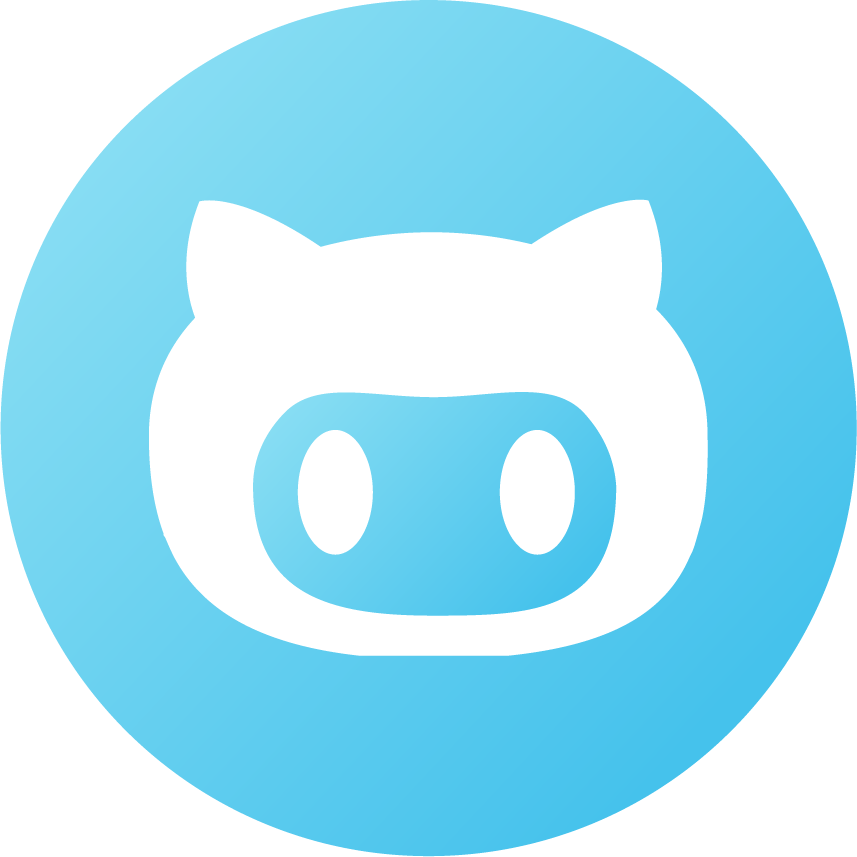
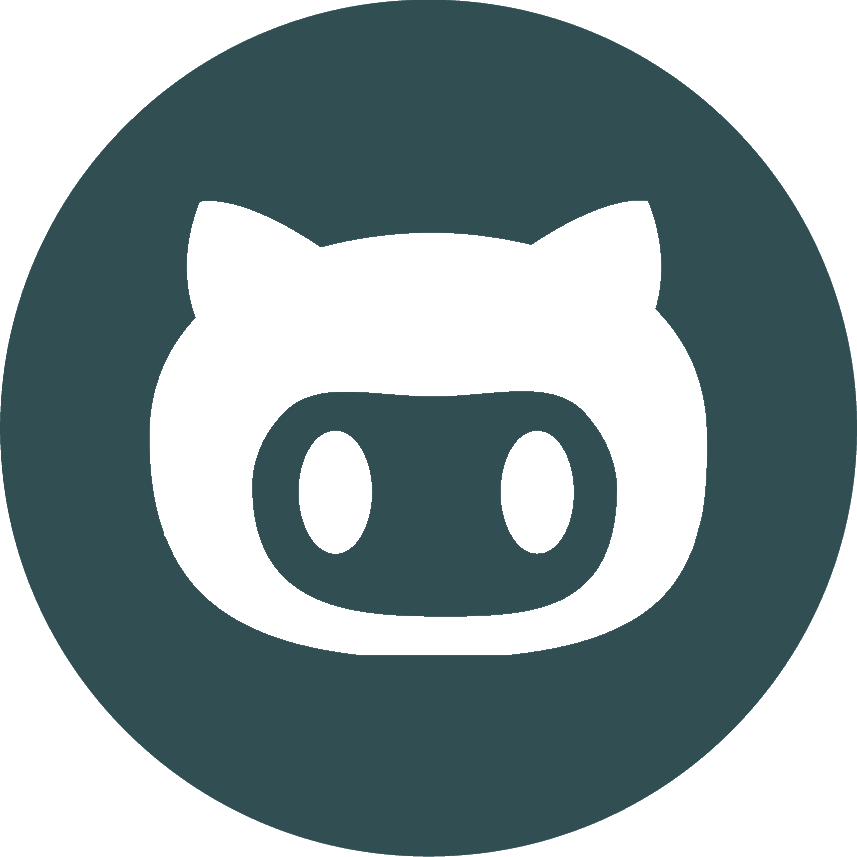
added styling to login and sign up and changed github image colors

diff --git a/client/src/pages/Signup.js b/client/src/pages/Signup.js
@@ -29,14 +29,26 @@ function Signup(props) {
     });
   };
 
+
+  const styles = {
+    link: {
+      textDecoration: 'none',
+      color: '#F2A154',
+      fontSize: '20px'
+    }
+  }
+
   return (
-    <div className="container my-1">
-      <Link to="/login">← Go to Login</Link>
+    <div className="container ms-auto d-flex justify-content-center align-items-center flex-column col-sm-12 form-group">
+      <Link style={styles.link}to="/login">Already Signed Up? <br></br>← Go to Login</Link>
       <h2>Signup</h2>
-      <form onSubmit={handleFormSubmit}>
+      <form 
+      className="col-sm-6"
+      onSubmit={handleFormSubmit}
+      >
         <div className="flex-row space-between my-2">
-          <label htmlFor="firstName">Username:</label>
           <input
+            className="form-control justify-content-center align-items-center col-sm-12"
             placeholder="Username"
             name="username"
             type="username"
@@ -45,8 +57,8 @@ function Signup(props) {
           />
         </div>
         <div className="flex-row space-between my-2">
-          <label htmlFor="email">Email:</label>
           <input
+            className="form-control justify-content-center align-items-center col-sm-12"
             placeholder="youremail@test.com"
             name="email"
             type="email"
@@ -55,8 +67,8 @@ function Signup(props) {
           />
         </div>
         <div className="flex-row space-between my-2">
-          <label htmlFor="pwd">Password:</label>
           <input
+            className="form-control justify-content-center align-items-center col-sm-12"
             placeholder="******"
             name="password"
             type="password"
@@ -64,8 +76,11 @@ function Signup(props) {
             onChange={handleChange}
           />
         </div>
-        <div className="flex-row flex-end">
-          <button type="submit">Submit</button>
+        <div className="flex-row flex-end d-flex justify-content-center align-items-center col-sm-12">
+          <button 
+          className="btn d-flex justify-content-center align-items-center col-sm-6"
+          type="submit"
+          >Submit</button>
         </div>
       </form>
     </div>

diff --git a/client/src/components/LoginPanel/index.js b/client/src/components/LoginPanel/index.js
@@ -28,11 +28,21 @@ function LoginPanel(props) {
     });
   };
 
+  const styles = {
+    link: {
+      textDecoration: 'none',
+      color: '#F2A154',
+      fontSize: '20px'
+    }
+  }
+
   return (
-      <form onSubmit={handleFormSubmit}>
-        <div className="flex-row space-between my-2">
-          <label htmlFor="email">Email address:</label>
+      <form 
+      className="container ms-atuo d-flex justify-content-center align-items-center flex-column col-sm-6 form-group"
+      onSubmit={handleFormSubmit}>
+        <div className="container ms-atuo d-flex justify-content-center align-items-center flex-column col-sm-12 form-group">
           <input
+            className="form-control justify-content-center align-items-center col-sm-12"
             placeholder="youremail@test.com"
             name="email"
             type="email"
@@ -40,9 +50,9 @@ function LoginPanel(props) {
             onChange={handleChange}
           />
         </div>
-        <div className="flex-row space-between my-2">
-          <label htmlFor="pwd">Password:</label>
+        <div className="container ms-atuo d-flex justify-content-center align-items-center flex-column col-sm-12 form-group my-2">
           <input
+            className="form-control justify-content-center align-items-center col-sm-12"
             placeholder="******"
             name="password"
             type="password"
@@ -55,8 +65,10 @@ function LoginPanel(props) {
             <p className="error-text">The provided credentials are incorrect</p>
           </div>
         ) : null}
-        <div className="flex-row flex-end">
-          <button type="submit">Submit</button>
+        <div className="flex-row flex-end d-flex justify-content-center align-items-center col-sm-12">
+          <button 
+          className="btn d-flex justify-content-center align-items-center col-sm-6"
+          type="submit">Submit</button>
         </div>
       </form>
   );

diff --git a/client/src/pages/UserList.js b/client/src/pages/UserList.js
@@ -82,7 +82,11 @@ const removeMovie = (e) => {
       }
     } else {
       event.preventDefault();
-      setErrorMsg([...errorMsg,{msg: 'Please make sure you have entered List Name, List Message, and have created a Movie List.'}]);
+      if(!errorMsg.includes('Please make sure you have entered List Name, List Message, and have created a Movie List.'))
+      {
+        setErrorMsg([...errorMsg,{msg: 'Please make sure you have entered List Name, List Message, and have created a Movie List.'}]);
+      }
+      
     }
   }
   //call the api to return the movie you searched for
@@ -101,7 +105,11 @@ const removeMovie = (e) => {
         setErrorMsg([])
     } else {
       event.preventDefault();
-      setErrorMsg([...errorMsg, {msg: 'Please enter a movie title.'}]);
+      if(!errorMsg.includes('Please enter a movie title.'))
+      {
+        setErrorMsg([...errorMsg, {msg: 'Please enter a movie title.'}]);
+      }
+      
     }
   }
   //styles for jsx
@@ -198,7 +206,7 @@ const removeMovie = (e) => {
           }
         <div className="d-flex flex-row list-group col-sm-12 justify-content-around align-items-center">
           <div className="d-flex flex-column list-group col-sm-12 justify-content-center">
-            <div className="errorMsg d-flex flex-column col-sm-12 justify-content-center">{errorMsg.map( error => <h1 className="errorMsg">{error.msg}</h1>)}</div>
+            <div className="errorMsg d-flex flex-column col-sm-12 justify-content-center">{errorMsg.map( (error, index)  => <h1 key={index} className="errorMsg">{error.msg}</h1>)}</div>
             <div className="d-flex flex-row list-group col-sm-12 justify-content-around">
               <h3 style={styles.orangeColor} className="d-flex justify-content-around">Search By Title & Year</h3>
               <div className="form-group d-flex m-1 justify-content-around">

diff --git a/client/src/pages/Login.js b/client/src/pages/Login.js
@@ -2,9 +2,18 @@ import { Link } from 'react-router-dom';
 import LoginPanel from '../components/LoginPanel';
 
 export default function Login() {
+
+  const styles = {
+    link: {
+      textDecoration: 'none',
+      color: '#F2A154',
+      fontSize: '20px'
+    }
+  }
+
   return (
-    <div className="container my-1">
-    <Link to="/signup">← Go to Signup</Link>
+    <div className="container ms-auto d-flex justify-content-center align-items-center flex-column col-sm-12 form-group">
+    <Link style={styles.link} to="/signup">Not Signed Up? <br></br>← Go to Signup</Link>
     <h2>Login</h2>
     <LoginPanel key="loginPanel" />
     </div>
